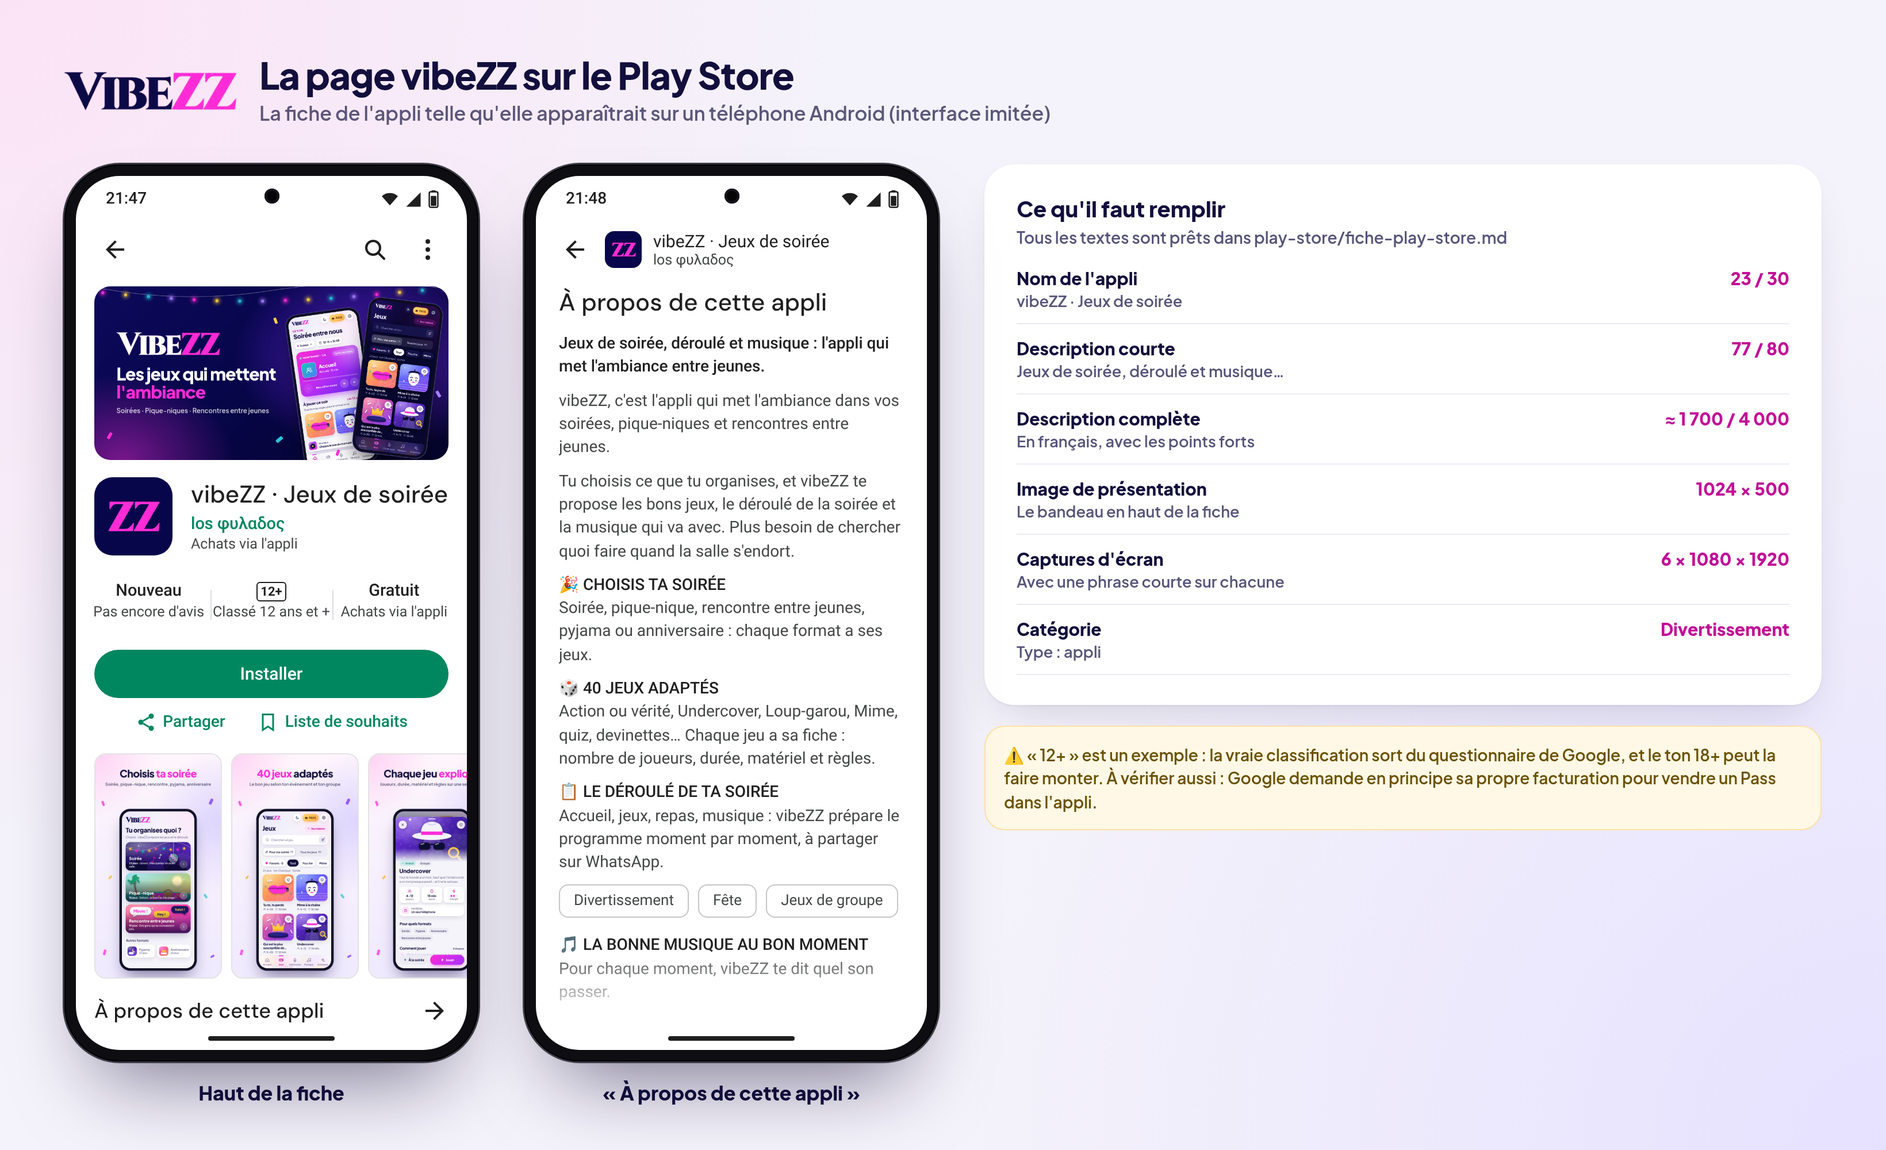
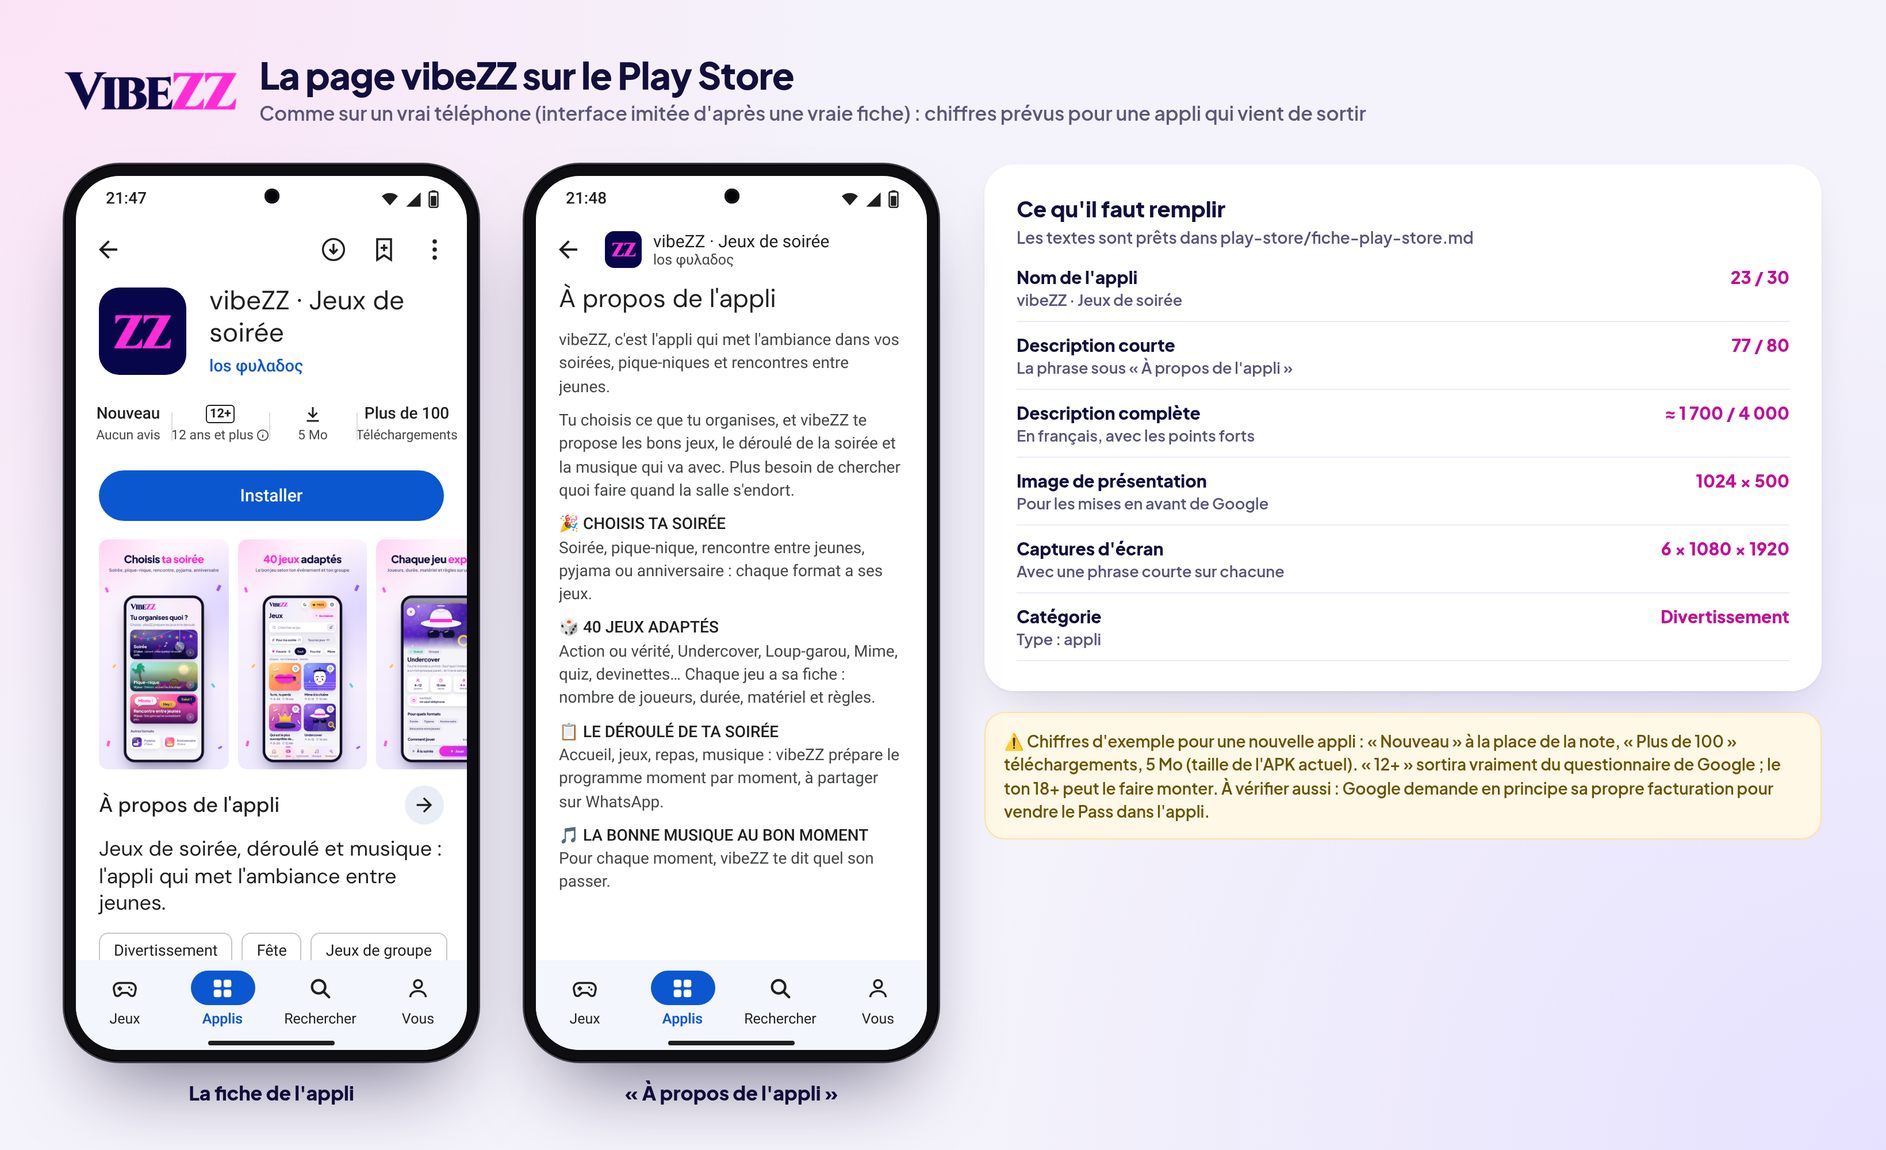
Maquette : identité et Play Store (fiche fidèle au vrai Play Store)

diff --git a/maquette/identite.html b/maquette/identite.html
@@ -2,44 +2,93 @@
 <html lang="fr"><head><meta charset="utf-8">
 <meta name="viewport" content="width=device-width, initial-scale=1, viewport-fit=cover">
 <meta name="robots" content="noindex,nofollow,noarchive">
-<title>vibeZZ · Identité &amp; Play Store</title>
+<meta name="theme-color" content="#f6f5fb">
+<title>vibeZZ · Icône &amp; Play Store</title>
 <style>
 @font-face { font-family: "Jakarta"; src: url(fonts/jakarta.ttf) format("truetype"); font-weight: 200 800; }
 * { box-sizing: border-box; margin: 0; padding: 0; }
-body { font-family: "Jakarta", system-ui, sans-serif; color: #07064a; line-height: 1.5; -webkit-font-smoothing: antialiased;
-  background: radial-gradient(120% 50% at 100% 0%, #fde8fa 0%, rgba(253,232,250,0) 60%), radial-gradient(90% 40% at 0% 0%, #ece8ff 0%, rgba(236,232,255,0) 60%), #f6f5fb; }
-.wrap { max-width: 1100px; margin: 0 auto; padding: 28px 18px 48px; }
+body { font-family: "Jakarta", system-ui, sans-serif; color: #07064a; line-height: 1.5; -webkit-font-smoothing: antialiased; -webkit-text-size-adjust: 100%;
+  background: radial-gradient(120% 40% at 100% 0%, #fde8fa 0%, rgba(253,232,250,0) 60%), #f6f5fb; }
+.wrap { max-width: 1180px; margin: 0 auto; padding: 24px 20px 48px; }
 .top { display: flex; gap: 10px; flex-wrap: wrap; margin-bottom: 18px; }
-.top a { text-decoration: none; font-weight: 700; background: #fff; border-radius: 999px; padding: 8px 14px; color: #07064a; font-size: 15px; box-shadow: 0 1px 2px rgba(18,15,61,.05), 0 12px 30px -8px rgba(18,15,61,.14); }
-h1 { font-size: 30px; font-weight: 800; letter-spacing: -.02em; }
-.sub { color: #57547a; margin: 4px 0 22px; font-size: 16px; }
-.it { background: #fff; border-radius: 22px; padding: 14px; margin-bottom: 18px; box-shadow: 0 1px 2px rgba(18,15,61,.05), 0 12px 30px -8px rgba(18,15,61,.14); }
-.it a.im { display: block; } .it img { width: 100%; display: block; border-radius: 14px; }
-.it h2 { font-size: 19px; font-weight: 800; margin: 12px 6px 2px; }
-.it p { color: #57547a; font-size: 15px; margin: 0 6px 4px; }
-.files { background: #fff; border-radius: 22px; padding: 18px 20px; margin-bottom: 18px; box-shadow: 0 1px 2px rgba(18,15,61,.05), 0 12px 30px -8px rgba(18,15,61,.14); }
-.files h2 { font-size: 19px; font-weight: 800; margin-bottom: 8px; }
-.files ul { list-style: none; } .files li { padding: 7px 0; border-top: 1px solid rgba(18,15,61,.08); font-size: 15px; }
+.top a { text-decoration: none; font-weight: 700; background: #fff; border-radius: 999px; padding: 8px 14px; color: #07064a; font-size: 15px; box-shadow: 0 6px 20px -8px rgba(18,15,61,.25); }
+h1 { font-size: 30px; font-weight: 800; letter-spacing: -.02em; line-height: 1.15; }
+.intro { color: #57547a; margin: 6px 0 4px; font-size: 16px; }
+h2 { font-size: 22px; font-weight: 800; margin: 34px 0 4px; }
+.sub { color: #57547a; font-size: 15px; margin-bottom: 14px; }
+.grid { display: grid; grid-template-columns: repeat(auto-fill, minmax(300px, 1fr)); gap: 22px; }
+.grid.caps { grid-template-columns: repeat(auto-fill, minmax(240px, 1fr)); }
+.one { display: grid; gap: 22px; }
+figure img { width: 100%; display: block; border-radius: 18px; }
+figcaption { font-size: 14.5px; color: #57547a; margin-top: 8px; text-align: center; }
+figcaption b { color: #07064a; }
+.wide img { box-shadow: 0 12px 30px -12px rgba(18,15,61,.3); }
+.files { background: #fff; border-radius: 22px; padding: 18px 20px; margin-top: 30px; box-shadow: 0 12px 30px -10px rgba(18,15,61,.15); }
+.files h2 { margin-top: 0; font-size: 19px; }
+.files ul { list-style: none; } .files li { padding: 8px 0; border-top: 1px solid rgba(18,15,61,.08); font-size: 15px; }
 .files a { color: #c20f97; font-weight: 700; } .files span { color: #8a87a6; }
+.note { font-size: 14px; color: #6b5200; background: #fff8e6; border: 1px solid #ffe2a3; border-radius: 16px; padding: 12px 14px; margin-top: 14px; }
+@media (max-width: 600px) {
+  .wrap { padding: 16px 0 40px; }
+  .top, h1, .intro, h2, .sub, .note { margin-left: 16px; margin-right: 16px; }
+  .grid, .grid.caps, .one { grid-template-columns: 1fr; gap: 26px; }
+  figure img { border-radius: 0; }
+  .wide img { box-shadow: none; }
+  .files { border-radius: 0; }
+}
 </style></head><body><div class="wrap">
-<div class="top"><a href="./">‹ Maquette cliquable</a><a href="../">Accueil de l'aperçu</a></div>
-<h1>Identité &amp; Play Store</h1>
-<p class="sub">L'icône vibeZZ, l'appli sur le téléphone et sa fiche sur le Play Store. Touche une image pour l'ouvrir en grand.</p>
-<div class="it"><a class="im" href="identite/planche-identite.png" target="_blank"><img loading="lazy" src="identite/web/planche-identite.jpg" alt="Planche identité"></a><h2>Planche générale</h2><p>Tout sur une seule image : icône, téléphone, Play Store et captures.</p></div>
-<div class="it"><a class="im" href="identite/01-icone-formes.png" target="_blank"><img loading="lazy" src="identite/web/01-icone-formes.jpg" alt=""></a><h2>1 · L'icône et ses formes</h2><p>L'icône 512 px du Play Store, les formes Android (cercle, squircle, carré arrondi, goutte) et les petites tailles sur fond clair et sombre.</p></div>
-<div class="it"><a class="im" href="identite/02-icone-theme-notification.png" target="_blank"><img loading="lazy" src="identite/web/02-icone-theme-notification.jpg" alt=""></a><h2>2 · Icône à thème et notification</h2><p>La version d'une seule couleur pour Android 13 et plus, et le ZZ blanc de la barre de notifications (propositions).</p></div>
-<div class="it"><a class="im" href="identite/03-ecran-accueil-android.png" target="_blank"><img loading="lazy" src="identite/web/03-ecran-accueil-android.jpg" alt=""></a><h2>3 · vibeZZ sur le téléphone</h2><p>L'écran d'accueil clair et sombre, la liste des applis et l'ouverture de l'appli.</p></div>
-<div class="it"><a class="im" href="identite/04-play-recherche.png" target="_blank"><img loading="lazy" src="identite/web/04-play-recherche.jpg" alt=""></a><h2>4 · Dans la recherche du Play Store</h2><p>Ce que voient les gens qui cherchent « jeux soirée » ou qui tapent le nom.</p></div>
-<div class="it"><a class="im" href="identite/05-play-fiche.png" target="_blank"><img loading="lazy" src="identite/web/05-play-fiche.jpg" alt=""></a><h2>5 · La page vibeZZ sur le Play Store</h2><p>Le haut de la fiche (bandeau, icône, Installer, captures) et la description.</p></div>
-<div class="it"><a class="im" href="identite/07-image-presentation.png" target="_blank"><img loading="lazy" src="identite/web/07-image-presentation.jpg" alt=""></a><h2>6 · Image de présentation 1024 × 500</h2><p>Le bandeau de la fiche, prêt à envoyer.</p></div>
-<div class="it"><a class="im" href="identite/08-captures-play-store.png" target="_blank"><img loading="lazy" src="identite/web/08-captures-play-store.jpg" alt=""></a><h2>7 · Captures d'écran du Play Store</h2><p>6 vraies captures de l'appli avec une phrase courte, en 1080 × 1920.</p></div>
-<div class="it"><a class="im" href="identite/06-avis-icone.png" target="_blank"><img loading="lazy" src="identite/web/06-avis-icone.jpg" alt=""></a><h2>8 · Avis sur l'icône et deux pistes</h2><p>L'icône actuelle à côté de deux propositions : dégradé et néon. L'icône de l'appli n'est pas changée.</p></div>
+<div class="top"><a href="../">‹ Accueil de l'aperçu</a><a href="./">Maquette cliquable</a></div>
+<h1>Icône &amp; Play Store</h1>
+<p class="intro">À quoi ressemblera vibeZZ sur le Play Store et sur un téléphone Android. Touche une image pour l'ouvrir en grand.</p>
+<p class="note">Interface du Play Store imitée d'après de vraies captures ; les autres applis sont inventées. Les chiffres (« Nouveau », « Plus de 100 », 12+, 5 Mo) sont des exemples pour une appli qui vient de sortir.</p>
+<h2>Sur le Play Store</h2><p class="sub">L'accueil, la recherche, la fiche de l'appli et sa description.</p>
+<div class="grid">
+<figure><a href="identite/web/tel-play-accueil.jpg" target="_blank"><img loading="lazy" src="identite/web/tel-play-accueil.jpg" alt="Accueil du Play Store"></a><figcaption><b>Accueil du Play Store</b> · vibeZZ mise en avant</figcaption></figure>
+<figure><a href="identite/web/tel-play-recherche.jpg" target="_blank"><img loading="lazy" src="identite/web/tel-play-recherche.jpg" alt="Recherche « jeux soirée »"></a><figcaption><b>Recherche « jeux soirée »</b> · vibeZZ dans les résultats</figcaption></figure>
+<figure><a href="identite/web/tel-play-fiche.jpg" target="_blank"><img loading="lazy" src="identite/web/tel-play-fiche.jpg" alt="La fiche vibeZZ"></a><figcaption><b>La fiche vibeZZ</b> · icône, Installer, captures</figcaption></figure>
+<figure><a href="identite/web/tel-play-apropos.jpg" target="_blank"><img loading="lazy" src="identite/web/tel-play-apropos.jpg" alt="À propos de l'appli"></a><figcaption><b>À propos de l'appli</b> · la description complète</figcaption></figure>
+<figure><a href="identite/web/tel-play-saisie.jpg" target="_blank"><img loading="lazy" src="identite/web/tel-play-saisie.jpg" alt="On tape « vibe »"></a><figcaption><b>On tape « vibe »</b> · l'appli sort en premier</figcaption></figure>
+</div>
+<h2>Les captures de la fiche</h2><p class="sub">6 vraies captures de l'appli avec une phrase courte, prêtes à envoyer (1080 × 1920).</p>
+<div class="grid caps">
+<figure><a href="identite/play-store/capture-1-choisis-ta-soiree.png" target="_blank"><img loading="lazy" src="identite/web/capture-1-choisis-ta-soiree.jpg" alt="1. Choisis ta soirée"></a><figcaption><b>1. Choisis ta soirée</b></figcaption></figure>
+<figure><a href="identite/play-store/capture-2-40-jeux-adaptes.png" target="_blank"><img loading="lazy" src="identite/web/capture-2-40-jeux-adaptes.jpg" alt="2. 40 jeux adaptés"></a><figcaption><b>2. 40 jeux adaptés</b></figcaption></figure>
+<figure><a href="identite/play-store/capture-3-chaque-jeu-explique.png" target="_blank"><img loading="lazy" src="identite/web/capture-3-chaque-jeu-explique.jpg" alt="3. Chaque jeu expliqué"></a><figcaption><b>3. Chaque jeu expliqué</b></figcaption></figure>
+<figure><a href="identite/play-store/capture-4-le-deroule.png" target="_blank"><img loading="lazy" src="identite/web/capture-4-le-deroule.jpg" alt="4. Le déroulé de ta soirée"></a><figcaption><b>4. Le déroulé de ta soirée</b></figcaption></figure>
+<figure><a href="identite/play-store/capture-5-un-seul-telephone.png" target="_blank"><img loading="lazy" src="identite/web/capture-5-un-seul-telephone.jpg" alt="5. Un seul téléphone"></a><figcaption><b>5. Un seul téléphone</b></figcaption></figure>
+<figure><a href="identite/play-store/capture-6-mode-sombre.png" target="_blank"><img loading="lazy" src="identite/web/capture-6-mode-sombre.jpg" alt="6. Mode sombre inclus"></a><figcaption><b>6. Mode sombre inclus</b></figcaption></figure>
+</div>
+<h2>L'image de présentation</h2><p class="sub">Le bandeau 1024 × 500 que Google utilise pour mettre l'appli en avant.</p>
+<div class="one wide"><figure><a href="identite/play-store/feature-graphic-1024x500.png" target="_blank"><img loading="lazy" src="identite/web/feature-graphic.jpg" alt="Image de présentation"></a><figcaption><b>Image de présentation</b> · 1024 × 500</figcaption></figure>
+</div>
+<h2>Sur le téléphone</h2><p class="sub">L'icône et son nom au milieu d'applis ordinaires, puis l'ouverture.</p>
+<div class="grid">
+<figure><a href="identite/web/tel-accueil-clair.jpg" target="_blank"><img loading="lazy" src="identite/web/tel-accueil-clair.jpg" alt="Écran d'accueil clair"></a><figcaption><b>Écran d'accueil clair</b> · style Pixel</figcaption></figure>
+<figure><a href="identite/web/tel-accueil-sombre.jpg" target="_blank"><img loading="lazy" src="identite/web/tel-accueil-sombre.jpg" alt="Écran d'accueil sombre"></a><figcaption><b>Écran d'accueil sombre</b> · style Samsung</figcaption></figure>
+<figure><a href="identite/web/tel-tiroir.jpg" target="_blank"><img loading="lazy" src="identite/web/tel-tiroir.jpg" alt="Liste des applis"></a><figcaption><b>Liste des applis</b> · ordre alphabétique</figcaption></figure>
+<figure><a href="identite/web/tel-ouverture.jpg" target="_blank"><img loading="lazy" src="identite/web/tel-ouverture.jpg" alt="Ouverture de l'appli"></a><figcaption><b>Ouverture de l'appli</b> · bleu nuit + ZZ</figcaption></figure>
+</div>
+<h2>L'icône</h2><p class="sub">Les formes Android, les petites tailles, l'icône à thème, la notification, et l'avis avec deux pistes (l'icône de l'appli n'est pas changée).</p>
+<div class="one wide">
+<figure><a href="identite/01-icone-formes.png" target="_blank"><img loading="lazy" src="identite/web/01-icone-formes.jpg" alt="L'icône et ses formes"></a><figcaption><b>L'icône et ses formes</b></figcaption></figure>
+<figure><a href="identite/02-icone-theme-notification.png" target="_blank"><img loading="lazy" src="identite/web/02-icone-theme-notification.jpg" alt="Icône à thème et notification"></a><figcaption><b>Icône à thème et notification</b></figcaption></figure>
+<figure><a href="identite/06-avis-icone.png" target="_blank"><img loading="lazy" src="identite/web/06-avis-icone.jpg" alt="Avis sur l'icône et deux pistes"></a><figcaption><b>Avis sur l'icône et deux pistes</b></figcaption></figure>
+</div>
+<h2>Toutes les planches</h2><p class="sub">Les mêmes images en grand format, pour les graphistes (aussi dans le PDF de la maquette).</p>
+<div class="one wide">
+<figure><a href="identite/planche-identite.png" target="_blank"><img loading="lazy" src="identite/web/planche-identite.jpg" alt="Planche générale"></a><figcaption><b>Planche générale</b></figcaption></figure>
+<figure><a href="identite/03-ecran-accueil-android.png" target="_blank"><img loading="lazy" src="identite/web/03-ecran-accueil-android.jpg" alt="vibeZZ sur le téléphone"></a><figcaption><b>vibeZZ sur le téléphone</b></figcaption></figure>
+<figure><a href="identite/04-play-recherche.png" target="_blank"><img loading="lazy" src="identite/web/04-play-recherche.jpg" alt="Play Store : accueil, recherche, saisie"></a><figcaption><b>Play Store : accueil, recherche, saisie</b></figcaption></figure>
+<figure><a href="identite/05-play-fiche.png" target="_blank"><img loading="lazy" src="identite/web/05-play-fiche.jpg" alt="Play Store : la fiche"></a><figcaption><b>Play Store : la fiche</b></figcaption></figure>
+<figure><a href="identite/07-image-presentation.png" target="_blank"><img loading="lazy" src="identite/web/07-image-presentation.jpg" alt="Image de présentation"></a><figcaption><b>Image de présentation</b></figcaption></figure>
+<figure><a href="identite/08-captures-play-store.png" target="_blank"><img loading="lazy" src="identite/web/08-captures-play-store.jpg" alt="Captures Play Store"></a><figcaption><b>Captures Play Store</b></figcaption></figure>
+</div>
 <div class="files"><h2>Fichiers prêts pour le Play Store</h2><ul>
 <li><a href="identite/play-store/icon-512.png" download>icon-512.png</a> <span>· icône 512 × 512</span></li>
 <li><a href="identite/play-store/feature-graphic-1024x500.png" download>feature-graphic-1024x500.png</a> <span>· image de présentation</span></li>
-<li><a href="identite/play-store/capture-1-choisis-ta-soiree.png" download>capture-1</a>, <a href="identite/play-store/capture-2-40-jeux-adaptes.png" download>2</a>, <a href="identite/play-store/capture-3-chaque-jeu-explique.png" download>3</a>, <a href="identite/play-store/capture-4-le-deroule.png" download>4</a>, <a href="identite/play-store/capture-5-un-seul-telephone.png" download>5</a>, <a href="identite/play-store/capture-6-mode-sombre.png" download>6</a> <span>· captures 1080 × 1920</span></li>
+<li><a href="identite/play-store/capture-1-choisis-ta-soiree.png" download>capture 1</a>, <a href="identite/play-store/capture-2-40-jeux-adaptes.png" download>capture 2</a>, <a href="identite/play-store/capture-3-chaque-jeu-explique.png" download>capture 3</a>, <a href="identite/play-store/capture-4-le-deroule.png" download>capture 4</a>, <a href="identite/play-store/capture-5-un-seul-telephone.png" download>capture 5</a>, <a href="identite/play-store/capture-6-mode-sombre.png" download>capture 6</a> <span>· 1080 × 1920</span></li>
 <li><a href="identite/play-store/fiche-play-store.md" target="_blank">fiche-play-store.md</a> <span>· nom, descriptions, catégorie, mots-clés</span></li>
-<li><a href="identite/avis-icone.md" target="_blank">avis-icone.md</a> <span>· l'avis sur l'icône en texte</span></li>
-<li><a href="identite/variantes/icone-variante-A-degrade-512.png" download>Piste A</a> et <a href="identite/variantes/icone-variante-B-neon-512.png" download>piste B</a> <span>· les deux propositions d'icône en 512 px</span></li>
+<li><a href="identite/avis-icone.md" target="_blank">avis-icone.md</a> <span>· l'avis sur l'icône</span></li>
+<li><a href="identite/variantes/icone-variante-A-degrade-512.png" download>Piste A</a> et <a href="identite/variantes/icone-variante-B-neon-512.png" download>piste B</a> <span>· propositions d'icône en 512 px</span></li>
 </ul></div>
 </div></body></html>

diff --git a/options.html b/options.html
@@ -35,7 +35,10 @@ a { color: var(--mag-d); }
 
 </style></head><body><div class="wrap">
 <div class="top"><a class="back" href="./">‹ Accueil</a></div><div class="doc"><h1>vibeZZ · maquette : où sont passées les options ?</h1>
-<p>C'est une <strong>maquette</strong>, pas encore l'appli. Rien n'a été modifié dans l'appli, ni sur ton PC, ni sur GitHub.</p>
+<blockquote>
+<p><strong>Mise à jour :</strong> la vraie appli suit maintenant cette maquette. Toutes les options ci-dessous ont été vérifiées dans l'appli, ligne par ligne : voir <code>INVENTAIRE.md</code> à la racine du projet. Les fenêtres « pas encore dessinées » et l'écran de partie ont été faits dans le même style, en clair et en sombre.</p>
+</blockquote>
+<p>Ce dossier est la <strong>maquette</strong> (le dessin cliquable) qui a servi de modèle.</p>
 <ul>
 <li>Planches : <a href="maquette/planche-clair.png">planche claire</a> (10 écrans) et <a href="maquette/planche-sombre.png">planche sombre</a> (4 écrans en mode nuit)</li>
 <li>Écrans un par un : <a href="ecrans.html">page des écrans</a></li>
@@ -193,4 +196,4 @@ a { color: var(--mag-d); }
 <li><strong>Sombre Soirée</strong> : on lance un jeu en un geste depuis sa tuile, dans un univers sombre et coloré. Repris pour le bouton « Jouer » mis en avant partout (Accueil, fiche, Ambiance) et pour le thème sombre.</li>
 <li><strong>Bobby, Bunker</strong> : je n'ai pas trouvé assez d'infos fiables sur leurs écrans. Je ne leur attribue donc rien.</li>
 <li><strong>Conventions d'apps connues</strong> (pas des concurrents) : la barre d'onglets en verre et les feuilles qui montent du bas (iOS / Android), le mini-lecteur « Son en cours » (comme Spotify), et les réglages groupés en cartes.</li>
-</ul></div><p class="foot">Dernière mise à jour : 8 octobre 2026 à 12:30 (heure de Douala)<br>Lien privé : merci de ne pas le partager publiquement.</p></div></body></html>
+</ul></div><p class="foot">Dernière mise à jour : 8 octobre 2026 à 12:35 (heure de Douala)<br>Lien privé : merci de ne pas le partager publiquement.</p></div></body></html>

diff --git a/ecrans.html b/ecrans.html
@@ -70,4 +70,4 @@ h2 { font-size: 18px; font-weight: 800; margin: 26px 0 12px; }
 <a class="planche" href="maquette/identite/08-captures-play-store.png" target="_blank"><img loading="lazy" src="maquette/identite/web/08-captures-play-store.jpg" alt="Captures Play Store"><span>Captures Play Store</span></a>
 <a class="planche" href="maquette/identite/06-avis-icone.png" target="_blank"><img loading="lazy" src="maquette/identite/web/06-avis-icone.jpg" alt="Avis sur l&#x27;icône"><span>Avis sur l&#x27;icône</span></a>
 
-<p class="foot">Dernière mise à jour : 8 octobre 2026 à 12:30 (heure de Douala)<br>Lien privé : merci de ne pas le partager publiquement.</p></div></body></html>
+<p class="foot">Dernière mise à jour : 8 octobre 2026 à 12:35 (heure de Douala)<br>Lien privé : merci de ne pas le partager publiquement.</p></div></body></html>

diff --git a/index.html b/index.html
@@ -78,4 +78,4 @@ a { color: var(--mag-d); }
 
 </div>
 <p class="note">💡 Sur ordinateur, la maquette s'affiche dans un cadre de téléphone. Pour l'APK : ouvre le fichier sur ton téléphone Android, et s'il bloque, autorise « Installer des applis inconnues ».</p>
-<p class="foot">Dernière mise à jour : 8 octobre 2026 à 12:30 (heure de Douala)<br>Lien privé : merci de ne pas le partager publiquement.</p></div></body></html>
+<p class="foot">Dernière mise à jour : 8 octobre 2026 à 12:35 (heure de Douala)<br>Lien privé : merci de ne pas le partager publiquement.</p></div></body></html>
